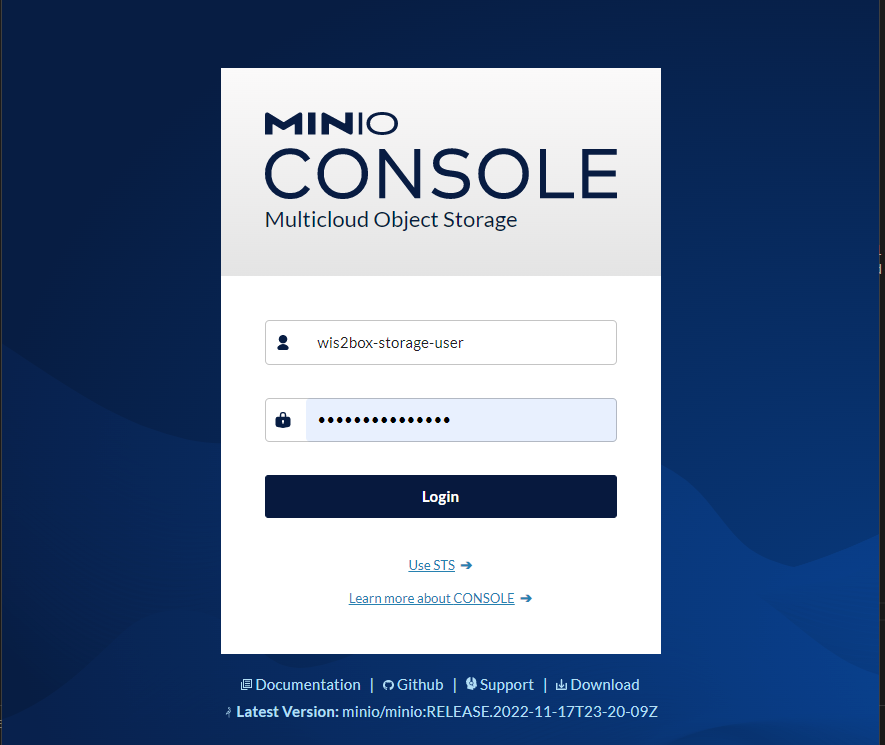
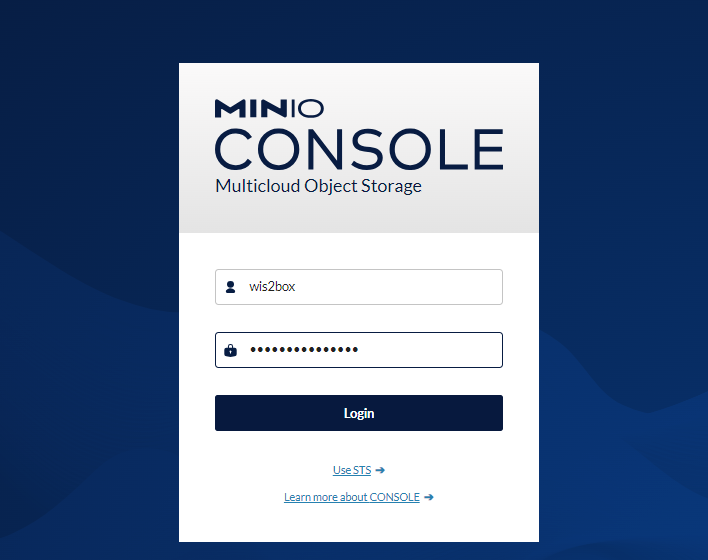
update docs

diff --git a/docs/source/user/data-ingest.rst b/docs/source/user/data-ingest.rst
@@ -34,7 +34,7 @@ Interactive data-ingestion requires an execution token, which can be generated u
 MinIO user interface
 --------------------
 
-To access the MinIO user interface, visit ``http://localhost:9001`` in your web browser.
+To access the MinIO user interface, visit ``http://<your-host-ip>:9001`` in your web browser.
 
 You can login with your ``WIS2BOX_STORAGE_USERNAME`` and ``WIS2BOX_STORAGE_PASSWORD``:
 
@@ -72,7 +72,7 @@ If no data appears in the ``wis2box-public`` storage bucket, you can inspect the
 
    python3 wis2box-ctl.py logs wis2box
 
-Or by visiting the local Grafana instance running at ``http://localhost:3000``
+Or by visiting the local Grafana instance running at ``http://<your-host-ip>:3000``
 
 wis2box workflow monitoring
 ---------------------------
@@ -105,7 +105,7 @@ See below a Python example to upload data using the MinIO package:
     minio_path = '/ita/italy_wmo_demo/data/core/weather/surface-based-observations/synop/'
 
     endpoint = 'http://localhost:9000'
-    WIS2BOX_STORAGE_USERNAME = '<your-wis2box-storage-username>'
+    WIS2BOX_STORAGE_USERNAME = 'wis2box'
     WIS2BOX_STORAGE_PASSWORD = '<your-wis2box-storage-password>'
 
     client = Minio(
@@ -116,6 +116,12 @@ See below a Python example to upload data using the MinIO package:
     
     filename = filepath.split('/')[-1]
     client.fput_object('wis2box-incoming', minio_path+filename, filepath)
+
+.. note::
+    
+    In the example the file ``mydata.bin`` in ingested from the directory ``/home/wis2box-user/local-data/`` on the host running wis2box.
+    If you are running the script on the same host as wis2box, you can use the endpoint ``http://localhost:9000`` as in the example. 
+    Otherwise, replace localhost with the IP address of the host running wis2box. 
 
 wis2box-ftp
 -----------
